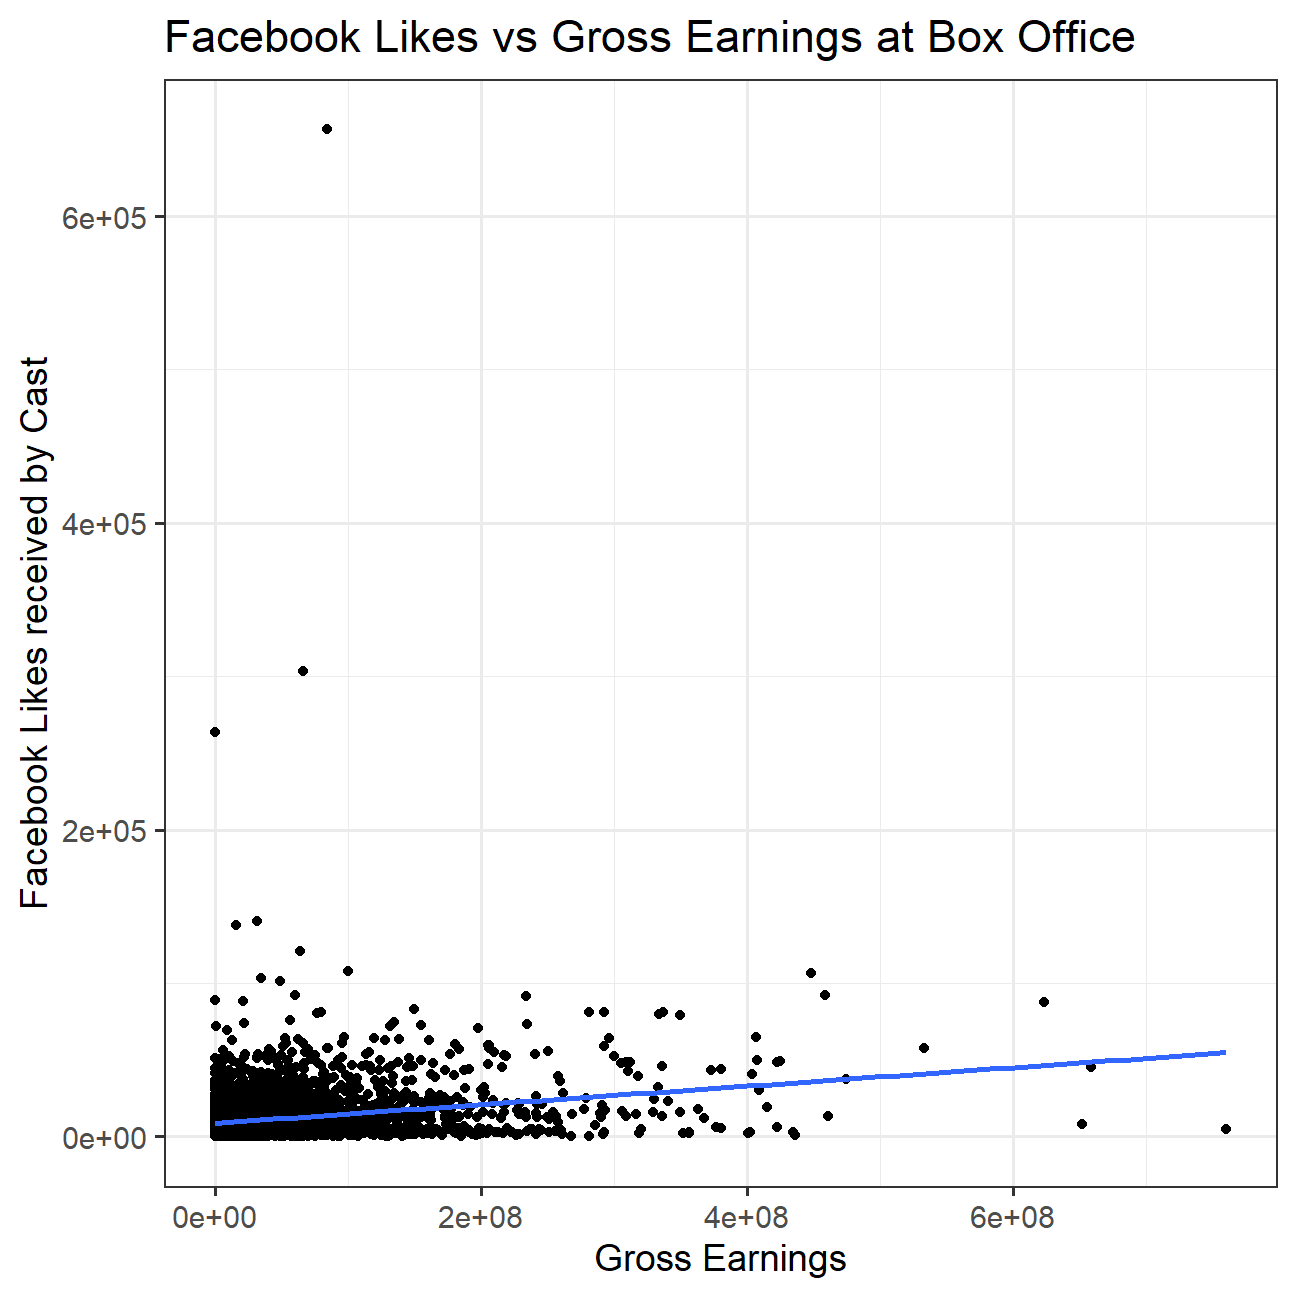
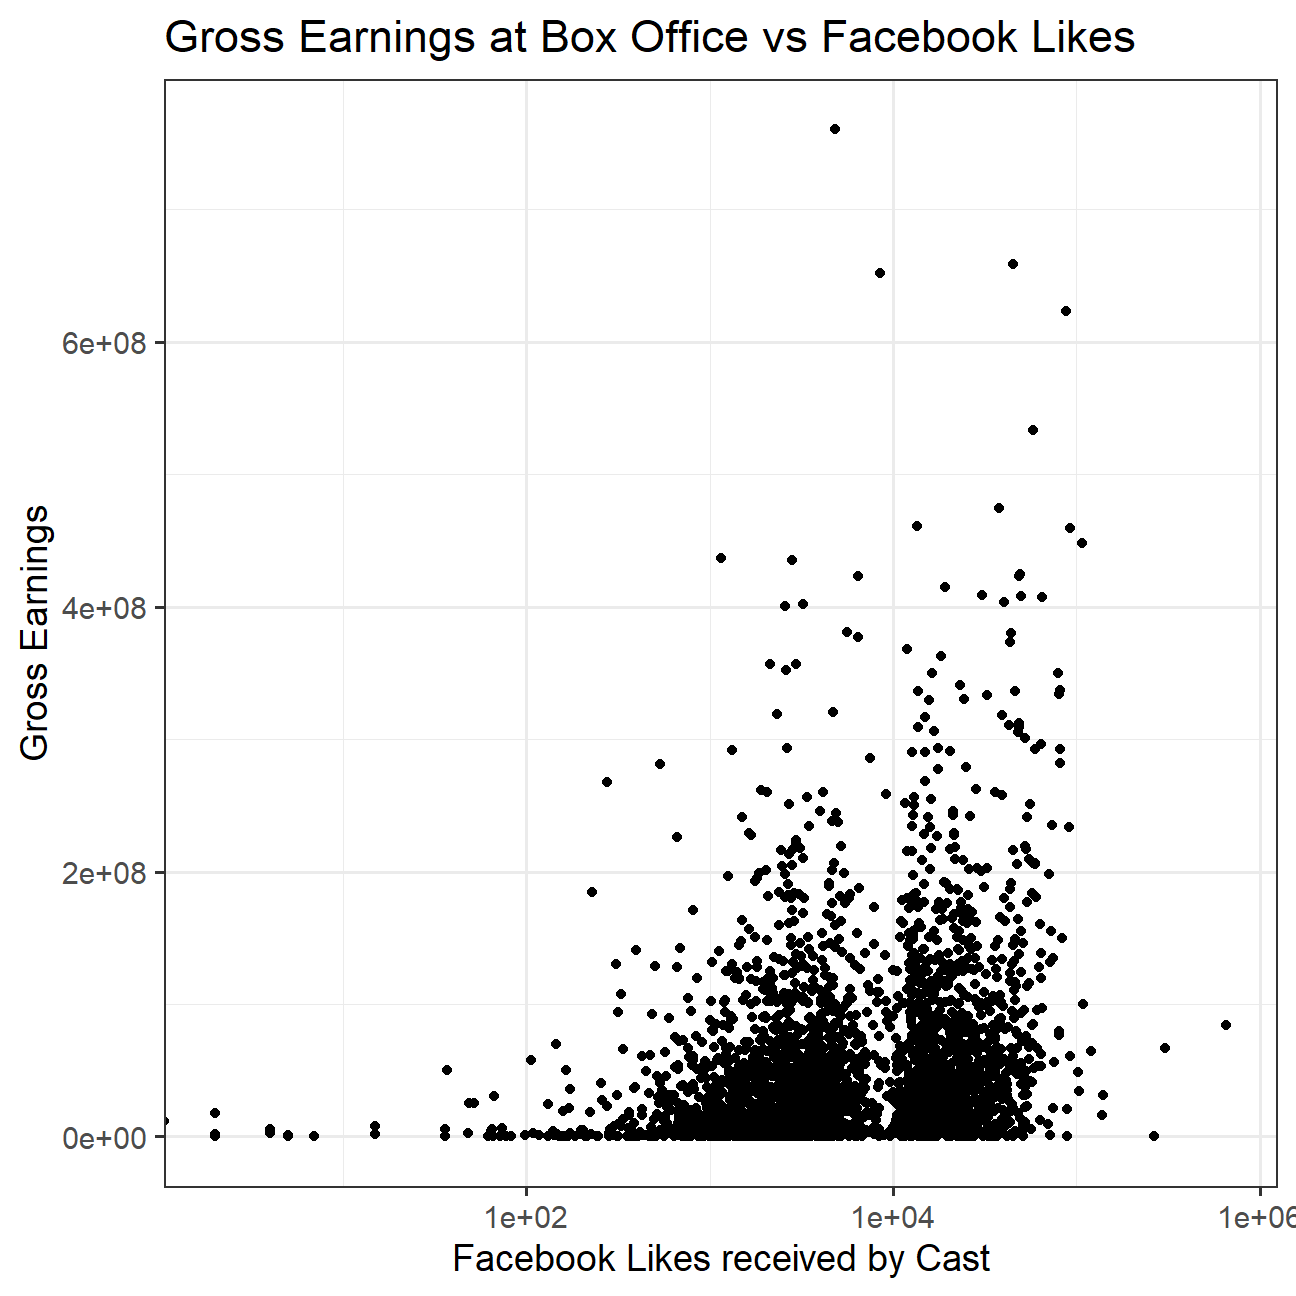
initial commit

diff --git a/content/blogs/movies.html b/content/blogs/movies.html
@@ -371,17 +371,17 @@ movies</code></pre>
 <div id="visualizing-the-data" class="section level2">
 <h2>Visualizing the data</h2>
 <pre class="r"><code>movies %&gt;%
-  ggplot(mapping=aes(x=gross, y=cast_facebook_likes)) +
+  ggplot(mapping=aes(x=cast_facebook_likes, y=gross)) +
   geom_point() +
-  geom_smooth(method = &quot;lm&quot;, se = FALSE) + #create line of best fit
   labs(
-    title = &quot;Facebook Likes vs Gross Earnings at Box Office&quot;,
-    x = &quot;Gross Earnings&quot;,
-    y = &quot;Facebook Likes received by Cast&quot;
+    title = &quot;Gross Earnings at Box Office vs Facebook Likes&quot;,
+    x = &quot;Facebook Likes received by Cast&quot;,
+    y = &quot;Gross Earnings&quot;
   ) +
-  theme_bw(base_size = 14)</code></pre>
+  theme_bw(base_size = 14) +
+  scale_x_log10()</code></pre>
 <p><img src="/blogs/movies_files/figure-html/gross_on_fblikes-1.png" width="648" style="display: block; margin: auto;" /></p>
-<p>There is a common assumption that the number of facebook likes depicts the popularity of the cast and hence, would also lead to more movie-goers but this scatter plot shows that there are some significant outliers and thus, there is a very slight positive correlation.</p>
+<p>There is a common assumption that the number of facebook likes depicts the popularity of the cast and hence, would also lead to more movie-goers but this scatter plot shows that this is not the case for most movies. There are however significant outliers.</p>
 <pre class="r"><code>movies %&gt;%
   ggplot(mapping=aes(x=budget, y=gross)) +
   geom_smooth(method = &quot;lm&quot;, se = FALSE) +  #create line of best fit
@@ -395,6 +395,7 @@ movies</code></pre>
 <p><img src="/blogs/movies_files/figure-html/gross_on_budget-1.png" width="648" style="display: block; margin: auto;" /></p>
 <p>The scatter plot shows that there is a positive correlation between budgets and gross earnings, which can be because big budgets means big money for special effects, marketing and larger distribution world-wide, which attracts more audience. Nothing can be a bigger proof of this than Avatar!</p>
 <pre class="r"><code>movies %&gt;%
+  filter(genre!= &quot;Family&quot; &amp; genre!= &quot;Musical&quot; &amp; genre!= &quot;Romance&quot; &amp; genre!= &quot;Thriller&quot; &amp; genre!=&quot;Western&quot;) %&gt;%
   ggplot(mapping=aes(x=rating, y=gross)) +
   geom_point() + 
   geom_smooth(method = &quot;lm&quot;, se = FALSE) + #create line of best fit
@@ -406,6 +407,6 @@ movies</code></pre>
   facet_wrap(~genre) +
   theme_bw(base_size = 14)</code></pre>
 <p><img src="/blogs/movies_files/figure-html/gross_on_rating-1.png" width="648" style="display: block; margin: auto;" /></p>
-<p>For some of the genres, like <code>action</code> and <code>adventure</code>, high IMDB ratings correlate to higher gross earnings. This could be because action and adventure movies have a higher mass appeal. However, for some genres like <code>thriller</code> and <code>western</code>, we don’t have enough data make an educated statement of the relationship between the two variables.</p>
+<p>For some of the genres, like <code>action</code> and <code>adventure</code>, high IMDB ratings correlate to higher gross earnings. This could be because action and adventure movies have a higher mass appeal.</p>
 <p>The strange thing is that <code>documentary</code> and <code>sci-fi</code> have a declining line of best fit, which shows a slight negative correlation.</p>
 </div>

diff --git a/content/blog44.md b/content/blog44.md
@@ -5,7 +5,7 @@ categories:
 date: "2017-10-31T22:42:51-05:00"
 description: Hi! I am Drishti Goyal, a Masters in Analytics and Management student at London Business School. I was born in India, raised in Malaysia and so always feel lucky to have 2 homes :)
 draft: false
-image: my_photo.jpg
+image: my_photo.jpg 
 keywords: ""
 slug: about_me
 title: About me
